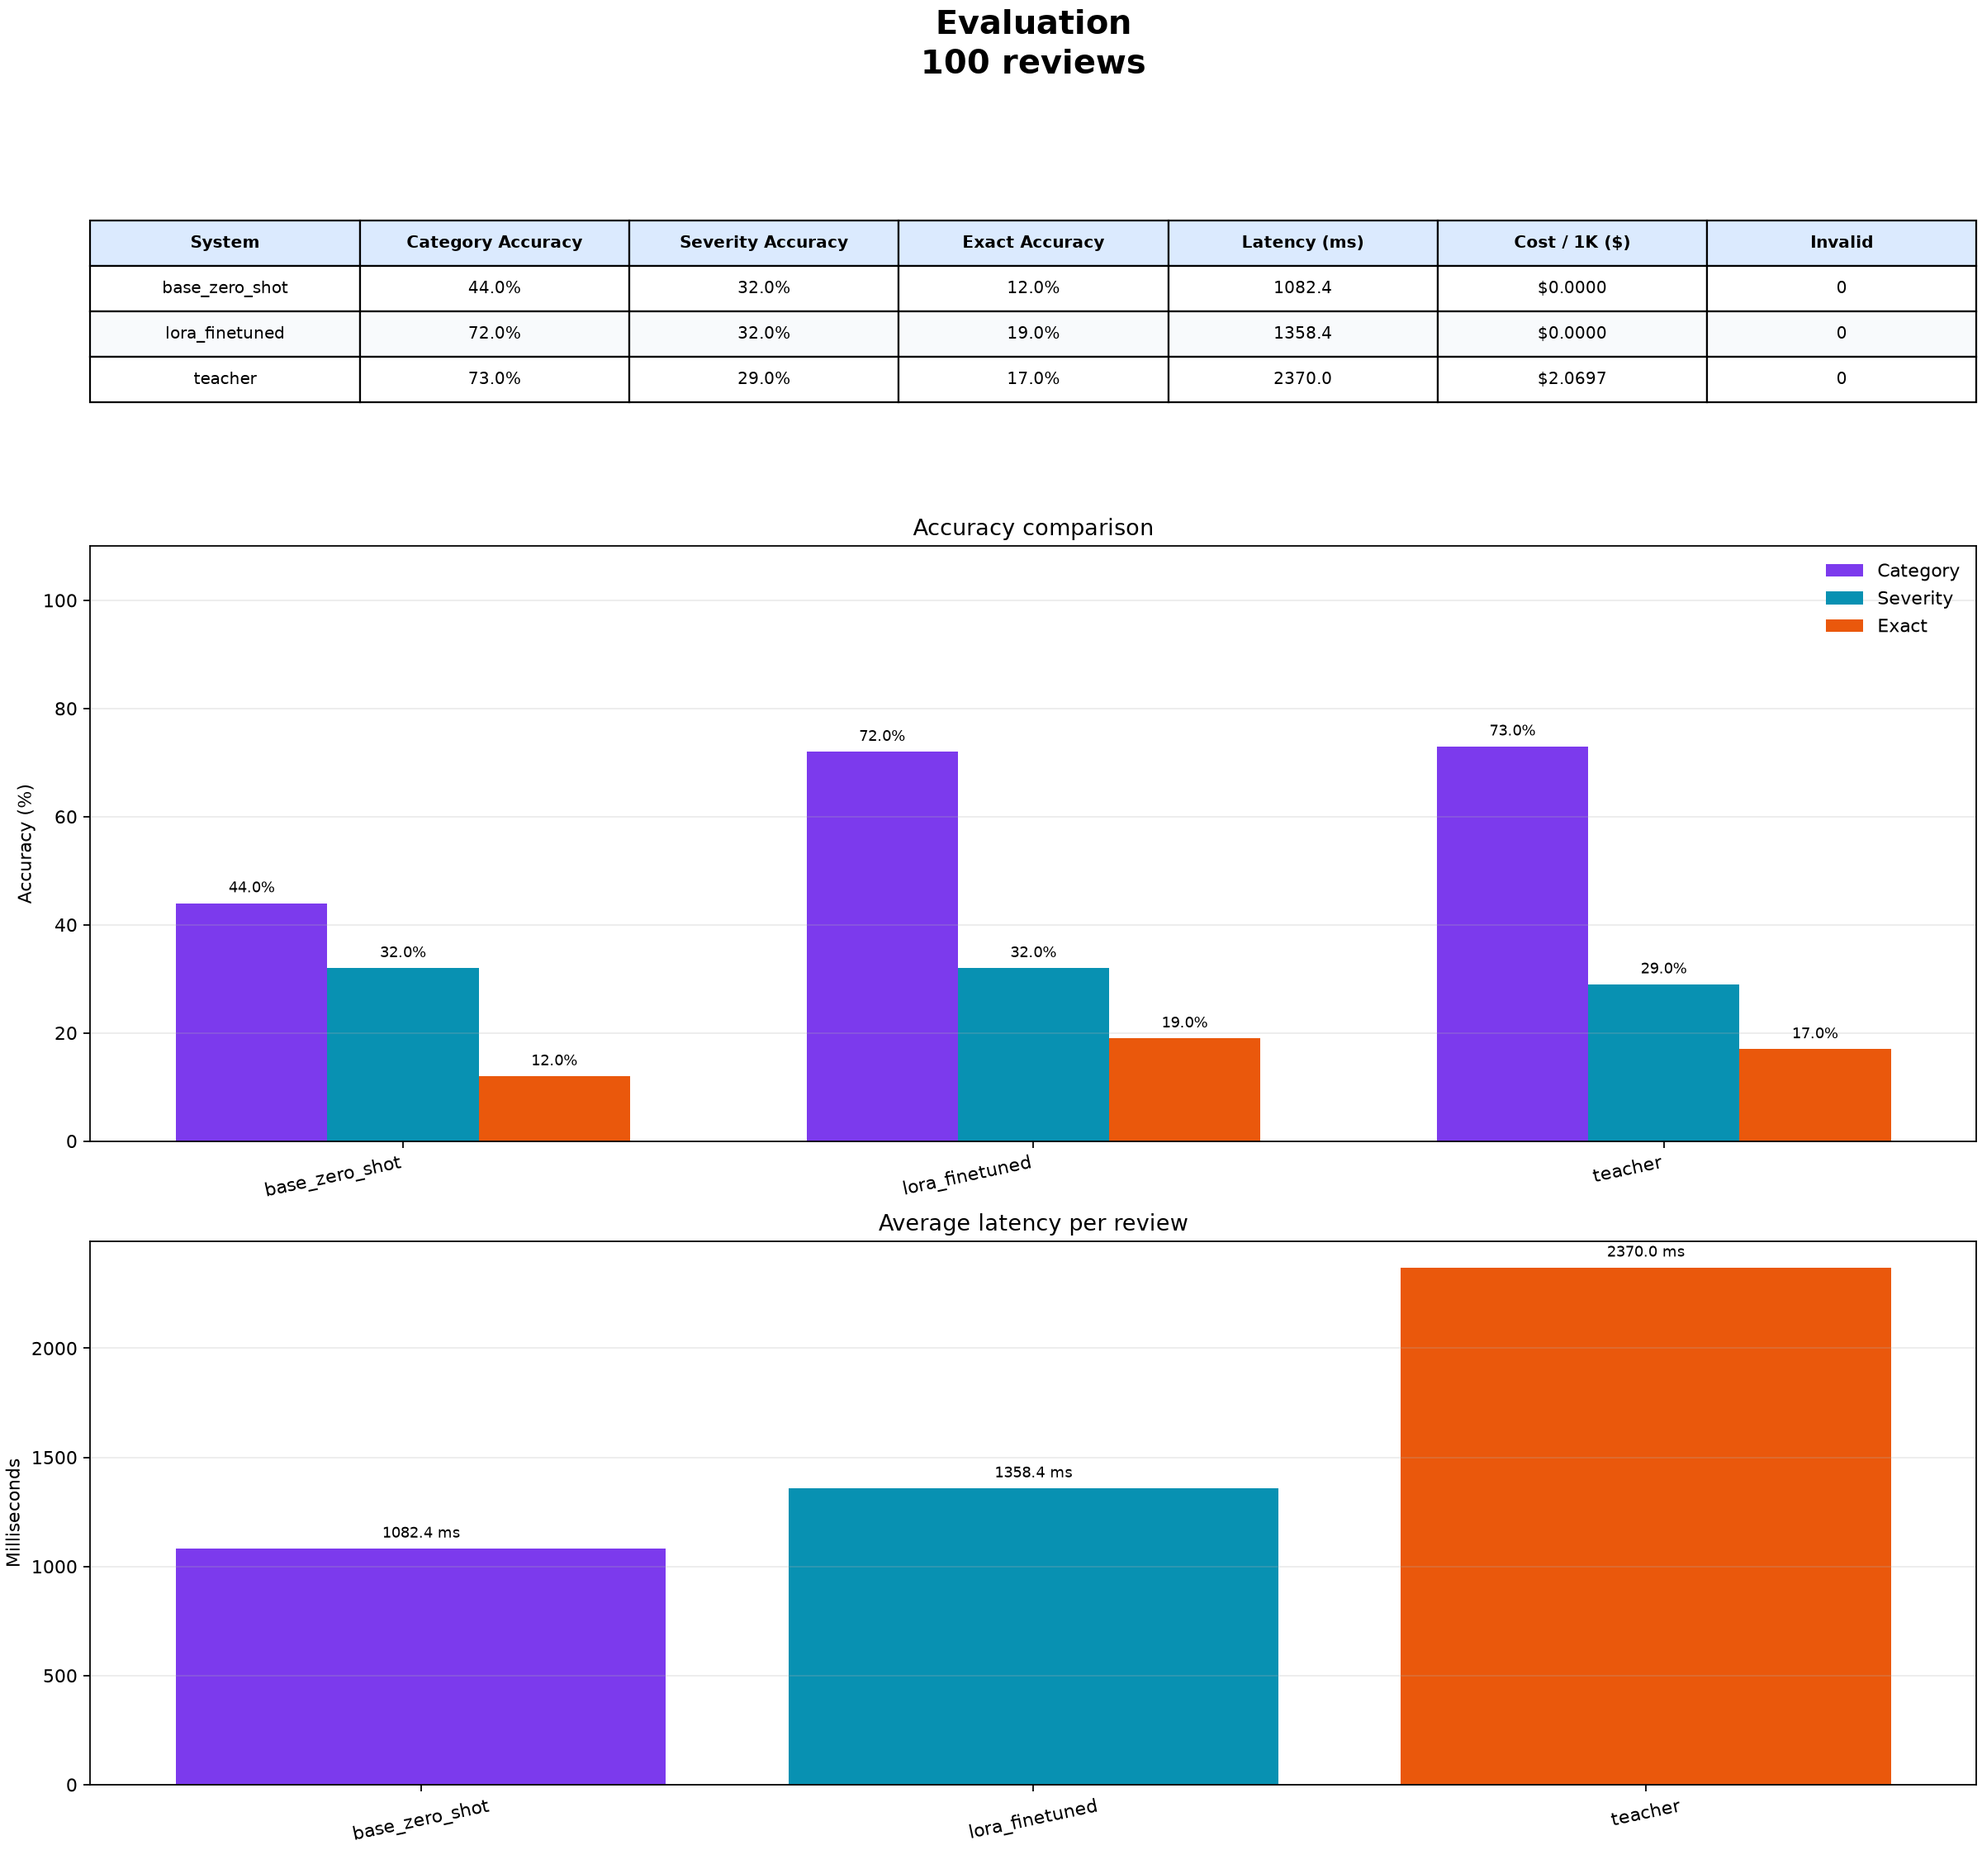
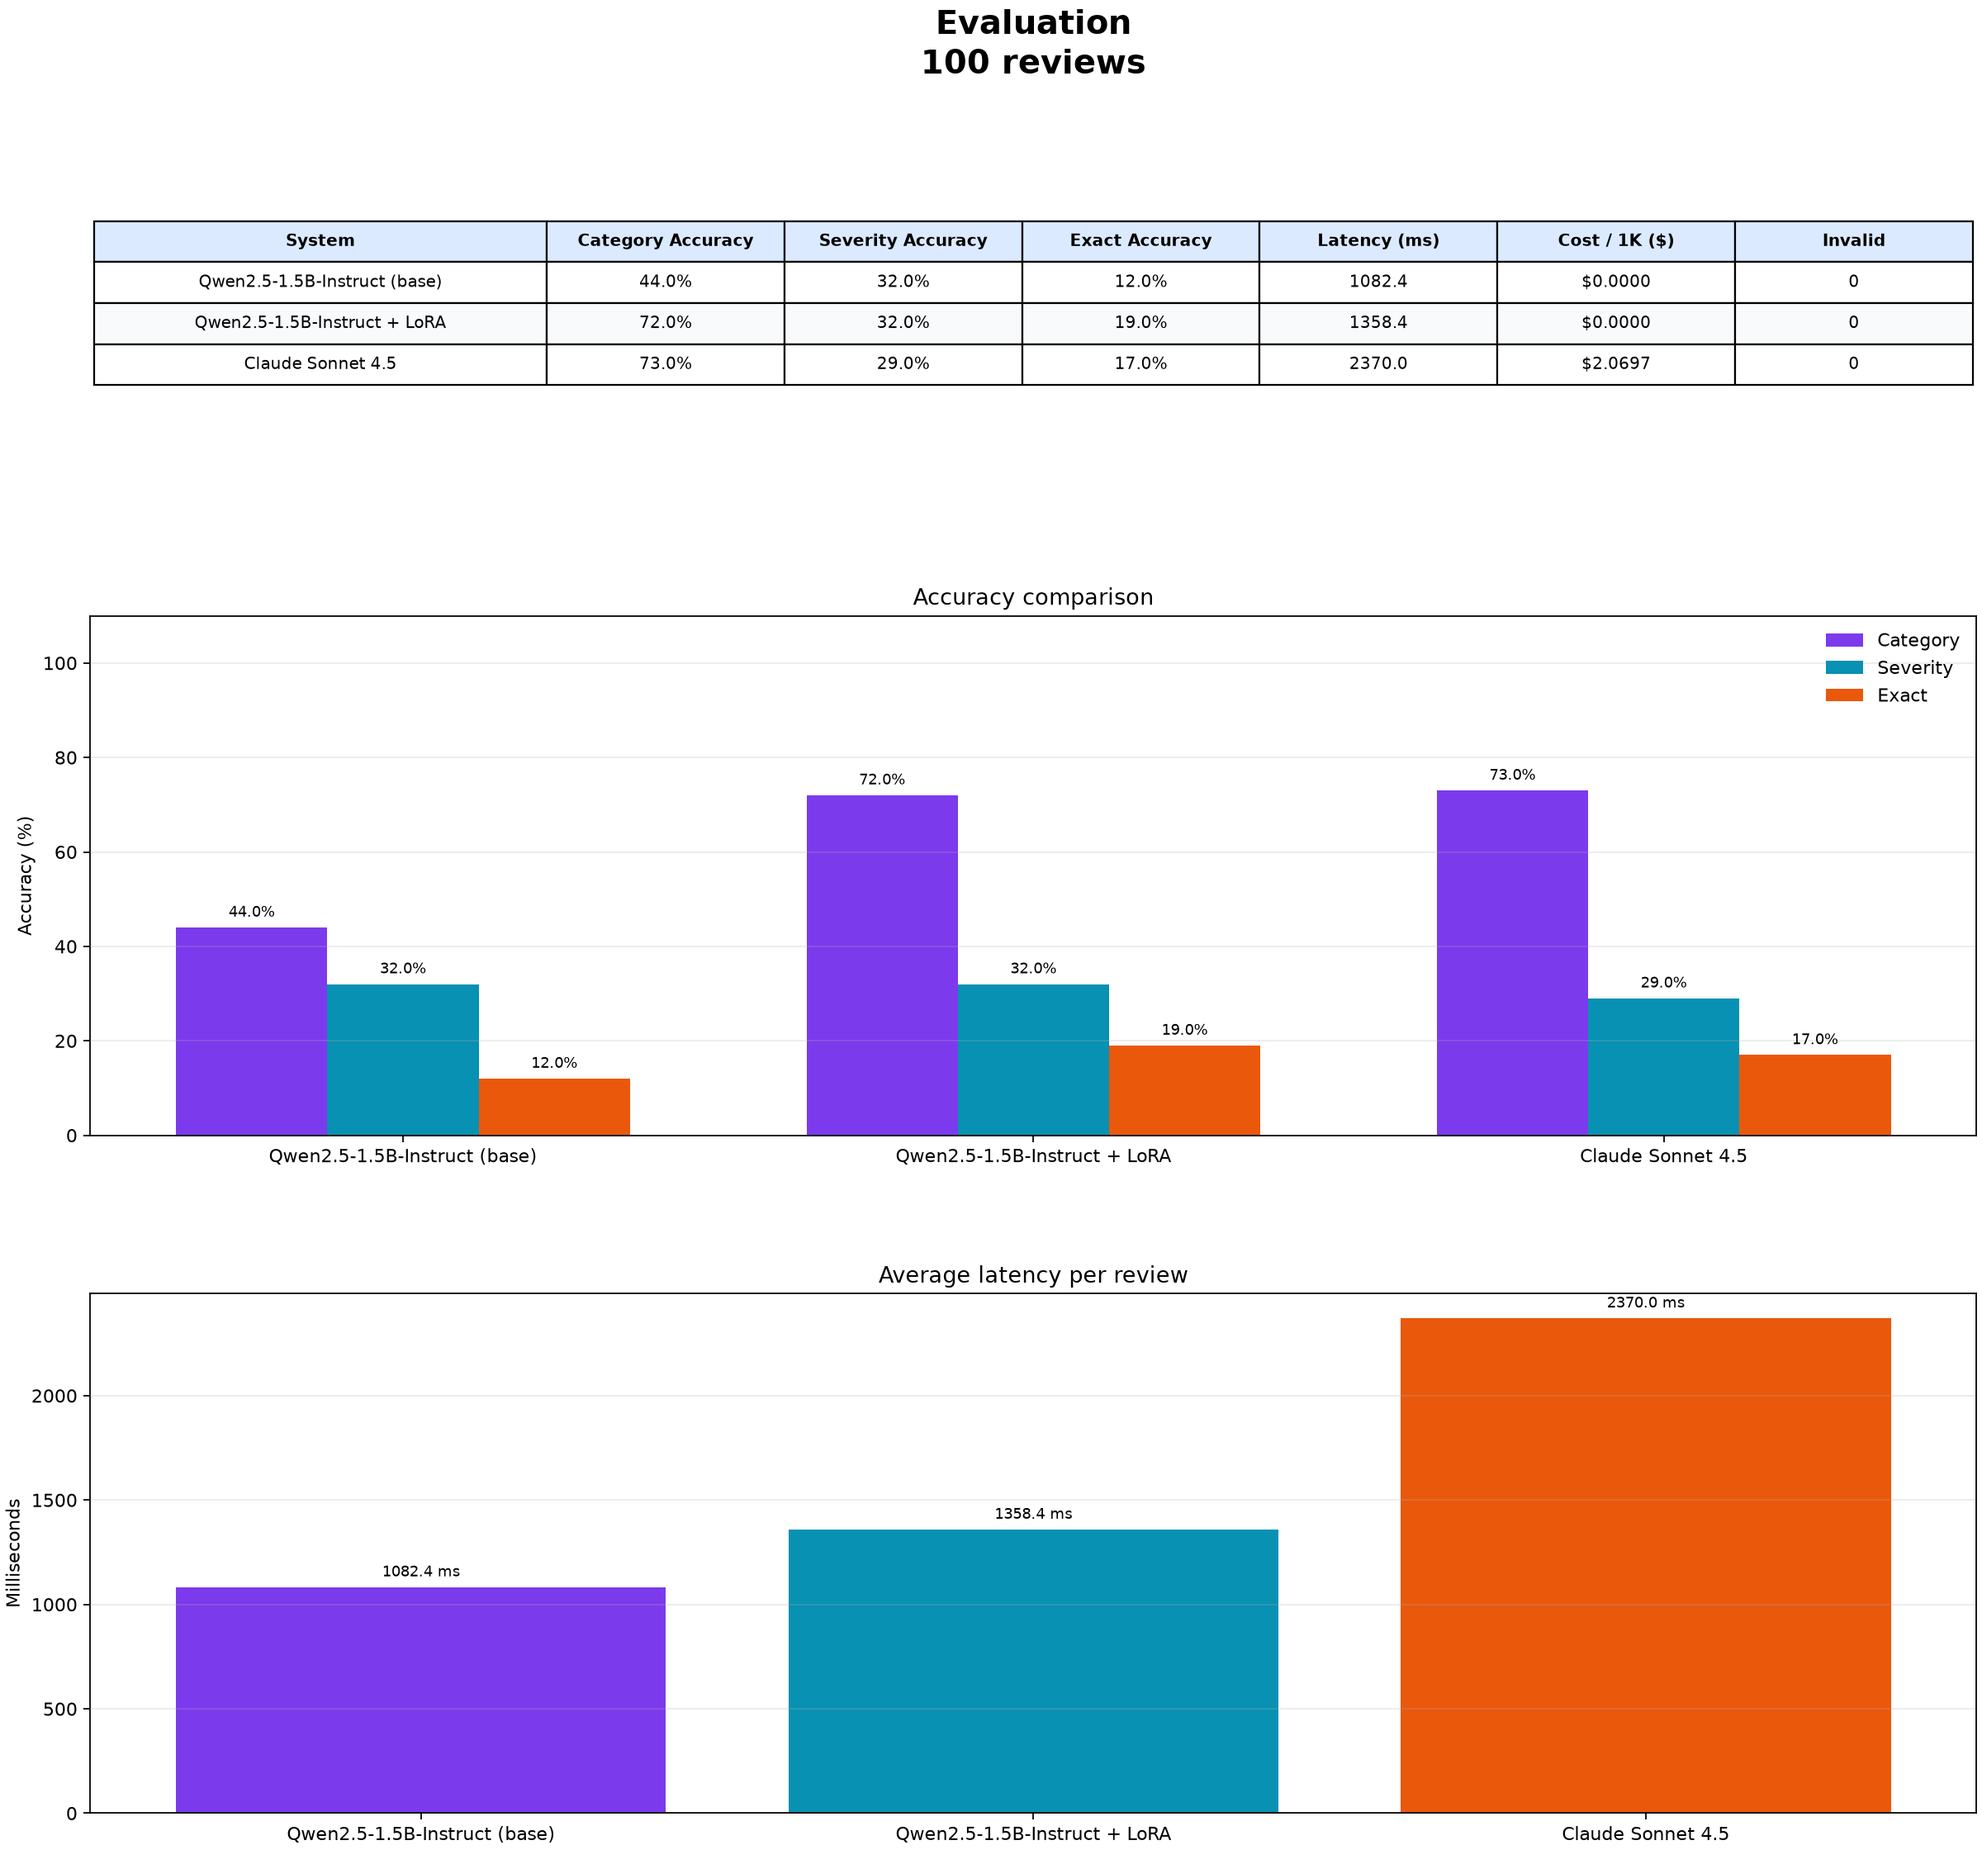
some more polishing of graphs and the readme

diff --git a/eval/run_eval.py b/eval/run_eval.py
@@ -55,10 +55,19 @@ LOCAL_MAX_NEW_TOKENS = 160
 TEACHER_MAX_TOKENS = 256
 MAX_RETRIES = 3
 PAID_SAMPLE_CAP = 20
+SYSTEM_DISPLAY_NAMES = {
+    "base_zero_shot": "Qwen2.5-1.5B-Instruct (base)",
+    "lora_finetuned": "Qwen2.5-1.5B-Instruct + LoRA",
+    "teacher": "Claude Sonnet 4.5",
+}
 
 ANTHROPIC_PRICING_PER_MILLION = {
     "claude-sonnet-4-5": {"input": 3.00, "output": 15.00},
 }
+
+
+def display_system_name(system_name: str) -> str:
+    return SYSTEM_DISPLAY_NAMES.get(system_name, system_name)
 
 
 def parse_args() -> argparse.Namespace:
@@ -358,12 +367,15 @@ def evaluate_predictions(
         except ValueError as error:
             prediction = None
             invalid_outputs += 1
-            print(f"{system_name} {index}/{len(examples)}: invalid output ({error})")
+            print(
+                f"{display_system_name(system_name)} {index}/{len(examples)}: "
+                f"invalid output ({error})"
+            )
         synchronize_cuda()
         latencies.append(time.perf_counter() - started)
         predictions.append(prediction)
         if index % 10 == 0 or index == len(examples):
-            print(f"{system_name}: processed {index}/{len(examples)}")
+            print(f"{display_system_name(system_name)}: processed {index}/{len(examples)}")
 
     return {
         "system": system_name,
@@ -380,7 +392,7 @@ def evaluate_predictions(
 def evaluate_local(
     system_name: str, examples: list[dict[str, str]], with_adapter: bool
 ) -> dict[str, Any]:
-    print(f"\nLoading {system_name}...")
+    print(f"\nLoading {display_system_name(system_name)}...")
     model, tokenizer = load_local_model(with_adapter=with_adapter)
     try:
         return evaluate_predictions(
@@ -466,7 +478,7 @@ def print_results(results: list[dict[str, Any]]) -> None:
         metrics = result["metrics"]
         summary_rows.append(
             [
-                result["system"],
+                display_system_name(result["system"]),
                 f"{metrics['overall_accuracy']:.3f}",
                 f"{metrics['severity_accuracy']:.3f}",
                 f"{metrics['exact_label_accuracy']:.3f}",
@@ -496,7 +508,7 @@ def print_results(results: list[dict[str, Any]]) -> None:
                     str(values["support"]),
                 ]
             )
-        print(f"\nPer-category metrics: {result['system']}")
+        print(f"\nPer-category metrics: {display_system_name(result['system'])}")
         print(format_table(["Category", "Precision", "Recall", "F1", "Support"], category_rows))
 
 

diff --git a/eval/view_results.py b/eval/view_results.py
@@ -22,6 +22,11 @@ import pandas as pd
 PROJECT_ROOT = Path(__file__).resolve().parents[1]
 RESULTS_DIR = PROJECT_ROOT / "eval" / "results"
 COLORS = ("#7c3aed", "#0891b2", "#ea580c")
+SYSTEM_DISPLAY_NAMES = {
+    "base_zero_shot": "Qwen2.5-1.5B-Instruct (base)",
+    "lora_finetuned": "Qwen2.5-1.5B-Instruct + LoRA",
+    "teacher": "Claude Sonnet 4.5",
+}
 
 
 def parse_args() -> argparse.Namespace:
@@ -60,7 +65,7 @@ def build_summary_table(comparison: dict[str, Any]) -> pd.DataFrame:
     for result in comparison["summary_table"]:
         rows.append(
             {
-                "System": result["system"],
+                "System": SYSTEM_DISPLAY_NAMES.get(result["system"], result["system"]),
                 "Category Accuracy": float(result["overall_accuracy"]) * 100,
                 "Severity Accuracy": float(result["severity_accuracy"]) * 100,
                 "Exact Accuracy": float(result["exact_label_accuracy"]) * 100,
@@ -113,7 +118,9 @@ def create_dashboard(
     summary: pd.DataFrame, review_count: Any, output_path: Path
 ) -> None:
     figure = plt.figure(figsize=(15, 14), constrained_layout=True)
-    grid = figure.add_gridspec(3, 1, height_ratios=(0.75, 1.15, 1.05))
+    grid = figure.add_gridspec(
+        3, 1, height_ratios=(0.75, 1.05, 1.05), hspace=0.16
+    )
     table_axis = figure.add_subplot(grid[0, 0])
     accuracy_axis = figure.add_subplot(grid[1, 0])
     latency_axis = figure.add_subplot(grid[2, 0])
@@ -141,6 +148,7 @@ def create_dashboard(
         cellText=cell_text,
         colLabels=column_labels,
         cellLoc="center",
+        colWidths=[0.24, 0.126, 0.126, 0.126, 0.126, 0.126, 0.126],
         loc="center",
     )
     rendered_table.auto_set_font_size(False)
@@ -174,7 +182,7 @@ def create_dashboard(
     accuracy_axis.set_title("Accuracy comparison")
     accuracy_axis.set_ylabel("Accuracy (%)")
     accuracy_axis.set_ylim(0, 110)
-    accuracy_axis.set_xticks(positions, systems, rotation=12, ha="right")
+    accuracy_axis.set_xticks(positions, systems, rotation=0)
     accuracy_axis.legend(frameon=False)
     accuracy_axis.grid(axis="y", alpha=0.25)
 
@@ -186,7 +194,7 @@ def create_dashboard(
     label_bars(latency_axis, latency_bars, " ms")
     latency_axis.set_title("Average latency per review")
     latency_axis.set_ylabel("Milliseconds")
-    latency_axis.tick_params(axis="x", rotation=12)
+    latency_axis.tick_params(axis="x", rotation=0)
     latency_axis.grid(axis="y", alpha=0.25)
 
     output_path.parent.mkdir(parents=True, exist_ok=True)

diff --git a/README.md b/README.md
@@ -42,7 +42,9 @@ the recorded 100-review comparison run.
 The LoRA adapter improved category accuracy from 44% for zero-shot Qwen to 72%
 on the manually labeled gold set, while keeping inference local and cost-free.
 
-![Evaluation comparison across the base model, LoRA adapter, and teacher model, generated with pandas and Matplotlib.](eval/results/comparison_readme.png)
+Evaluation comparison across the base model, LoRA adapter, and teacher model generated with Matplotlib and pandas:
+
+![Evaluation comparison across the base model, LoRA adapter, and teacher model.](eval/results/comparison_readme.png)
 
 ## Run locally with Docker
 
